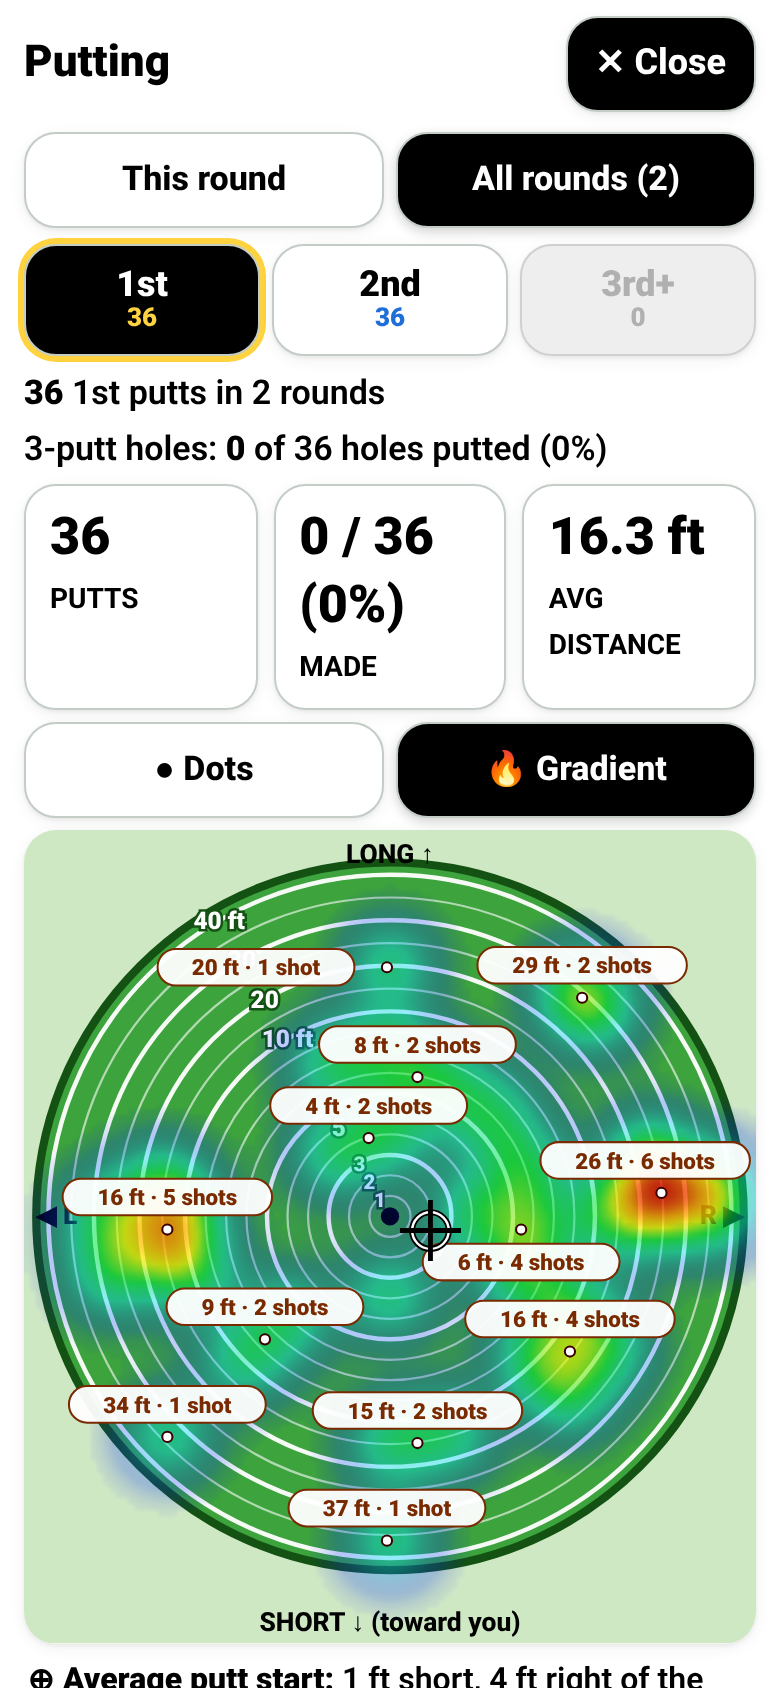
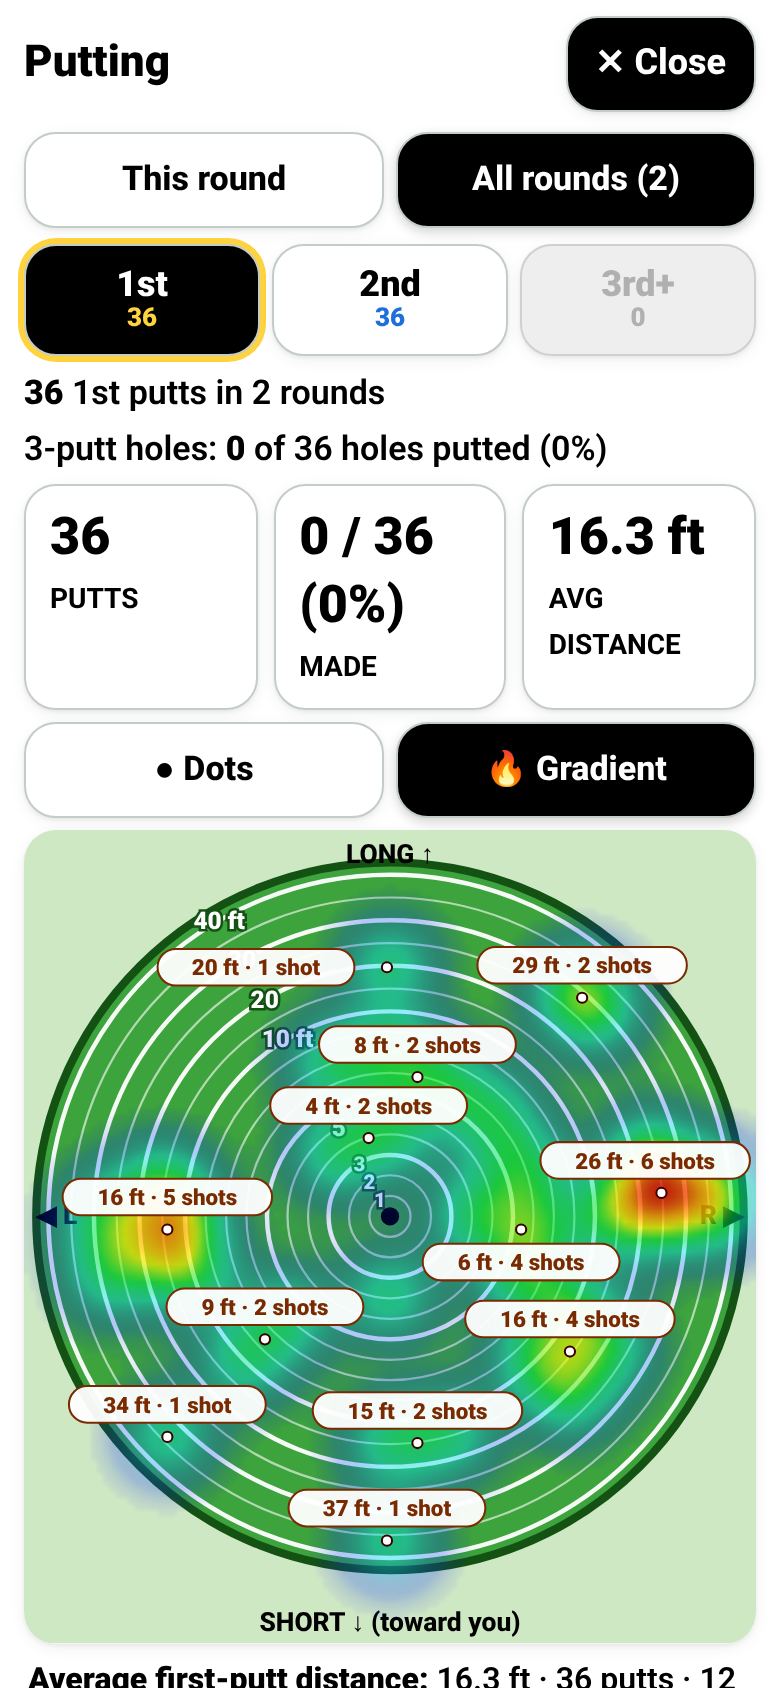
v62: putt-start maps show the mean entered putt distance, no misleading position average

Changed region(s): [[0.0308, 0.9858, 0.9538, 1.0], [0.5231, 0.7085, 0.5846, 0.7393]]

diff --git a/app.js b/app.js
@@ -1291,16 +1291,20 @@
     var ax = 0, ay = 0, lr = 0, lg = 0, yd = pts.every(function (p) { return p.u === 'yd'; });
     pts.forEach(function (p) { ax += p.x; ay += p.y; var dx = p.x - C[0], dy = C[1] - p.y, L = Math.hypot(dx, dy) || 1, d = yd ? p.d : p.u === 'yd' ? p.d * 3 : p.d; lr += d * dx / L; lg += d * dy / L; });
     ax /= pts.length; ay /= pts.length; lr /= pts.length; lg /= pts.length;
-    h += '<g id="heatavg"><circle cx="' + f1(ax) + '" cy="' + f1(ay) + '" r="9" fill="none" stroke="#000" stroke-width="3"/><circle cx="' + f1(ax) + '" cy="' + f1(ay) + '" r="9" fill="none" stroke="#fff" stroke-width="1.2"/>' +
+    // putt-start map: putts start all around the cup, so their average POSITION cancels out near the hole -> no ⊕ there; report the mean distance instead
+    var puttStart = view.map === 'putt';
+    if (!puttStart) h += '<g id="heatavg"><circle cx="' + f1(ax) + '" cy="' + f1(ay) + '" r="9" fill="none" stroke="#000" stroke-width="3"/><circle cx="' + f1(ax) + '" cy="' + f1(ay) + '" r="9" fill="none" stroke="#fff" stroke-width="1.2"/>' +
       '<path d="M' + f1(ax - 15) + ' ' + f1(ay) + ' h30 M' + f1(ax) + ' ' + f1(ay - 15) + ' v30" stroke="#000" stroke-width="2.4"/></g>';
     var g = document.createElementNS(NS, 'g'); g.setAttribute('id', 'heatlayer'); g.innerHTML = h; svg.appendChild(g);
     var U = yd ? ' yd' : ' ft', part = function (v, a, b) { return Math.round(Math.abs(v)) ? Math.round(Math.abs(v)) + U + ' ' + (v > 0 ? a : b) : ''; };
     var words = [part(lg, 'long', 'short'), part(lr, 'right', 'left')].filter(Boolean).join(', ');
     var sm = document.createElement('p'); sm.className = 'heatsum'; sm.id = 'heatsum';
-    sm.innerHTML = '<b>⊕ Average ' + (view.map === 'putt' ? 'putt start' : 'finish') + ':</b> ' + (words ? words + ' of the hole' : 'centred on the hole') + ' · ' + pts.length + ' shot' + (pts.length === 1 ? '' : 's') + (mode === 'grad' ? (tagged ? ' – ' + tagged + ' hot spot' + (tagged === 1 ? '' : 's') : '') : tagged > 1 || (tagged && lone) ? ' – ' + tagged + ' cluster' + (tagged === 1 ? '' : 's') + (lone ? ' + ' + lone + ' single shot' + (lone === 1 ? '' : 's') + ' (no tag)' : '') : '') + '.';
+    sm.innerHTML = (puttStart ? '<b>Average ' + ({ '2': 'second-putt', '3': '3rd+ putt' }[view.puttN] || 'first-putt') + ' distance:</b> ' + (function () { var PL = puttData().list, m = PL.length ? PL.reduce(function (t, p) { return t + Number(p.ft); }, 0) / PL.length : 0; /* simple mean of the entered starting distances of every putt on this map */
+        return (Math.round(m * 10) / 10) + ' ft · ' + PL.length + ' putt' + (PL.length === 1 ? '' : 's'); })() :
+      '<b>⊕ Average finish:</b> ' + (words ? words + ' of the hole' : 'centred on the hole') + ' · ' + pts.length + ' shot' + (pts.length === 1 ? '' : 's')) + (mode === 'grad' ? (tagged ? (puttStart ? ' · ' : ' – ') + tagged + ' hot spot' + (tagged === 1 ? '' : 's') : '') : tagged > 1 || (tagged && lone) ? ' – ' + tagged + ' cluster' + (tagged === 1 ? '' : 's') + (lone ? ' + ' + lone + ' single shot' + (lone === 1 ? '' : 's') + ' (no tag)' : '') : '') + '.';
     anc.parentNode.insertBefore(sm, anc.nextSibling);
     var lg2 = document.createElement('p'); lg2.className = 'help heatnote'; lg2.id = 'heatnote';
-    lg2.innerHTML = mode === 'grad' ? '<span class="ramp rainbow" aria-hidden="true"></span> Gradient: a smooth density map of where the shots finished – clear = none, blue = a few, then green, yellow, red = most. One white tag per hot spot (average distance to the hole · shots in it). Cluster slider: tight = more, smaller hot spots; loose = fewer, wider ones. ⊕ = average finish of all shots shown. Shots with no direction entered are left out.' : '<span class="ramp" aria-hidden="true"></span> Islands: each island is shaded by its share of the shots – light = few, dark red = most. Each white tag is one cluster – shots within 3 ft of each other (3 yd off the green), clusters less than 2 ft apart merged – with its average distance to the hole · number of shots. Single, isolated shots get no tag. ⊕ = average finish of all shots shown. Shots with no direction entered are left out.';
+    lg2.innerHTML = mode === 'grad' ? '<span class="ramp rainbow" aria-hidden="true"></span> Gradient: a smooth density map of where the shots finished – clear = none, blue = a few, then green, yellow, red = most. One white tag per hot spot (average distance to the hole · shots in it). Cluster slider: tight = more, smaller hot spots; loose = fewer, wider ones. ' + (puttStart ? 'No ⊕ here: putts start all around the hole, so an average position would cancel out – the summary gives the average distance instead. ' : '⊕ = average finish of all shots shown. ') + 'Shots with no direction entered are left out.' : '<span class="ramp" aria-hidden="true"></span> Islands: each island is shaded by its share of the shots – light = few, dark red = most. Each white tag is one cluster – shots within 3 ft of each other (3 yd off the green), clusters less than 2 ft apart merged – with its average distance to the hole · number of shots. Single, isolated shots get no tag. ⊕ = average finish of all shots shown. Shots with no direction entered are left out.';
     sm.parentNode.insertBefore(lg2, sm.nextSibling);
   }
   // ---------- Club performance (app only): everything from where the ball FINISHED (next row's distance + direction) ----------

diff --git a/tests/heat-focused.js b/tests/heat-focused.js
@@ -29,9 +29,18 @@ const BASE = process.env.BASE_URL || 'http://127.0.0.1:8774/', OUT = '/workspace
     if (m === 'prox') { const all = await page.$('[data-act="proxb"][data-v="all"]'); if (all) await all.click(); await page.waitForSelector('#heattog'); }
     if (m === 'pmiss') { await page.waitForSelector('#heattog'); }
     const gr = await page.evaluate(() => ({ img: !!document.querySelector('#mapview svg.heat #heatgrad'), hs: [...document.querySelectorAll('#mapview .hotspot text')].map(t => t.textContent), avg: !!document.querySelector('#heatavg'), sel: document.querySelector('#heattog .sel').dataset.v }));
-    assert.ok(gr.img && gr.avg && gr.sel === 'grad', m + ' gradient by default for multi-round ' + JSON.stringify(gr));
+    assert.ok(gr.img && (m === 'putt' ? !gr.avg : gr.avg) && gr.sel === 'grad', m + ' gradient by default for multi-round ' + JSON.stringify(gr));
     assert.ok(gr.hs.every(t => /^\d+ (ft|yd) · \d+ shots?$/.test(t)), m + ' hot-spot tags ' + gr.hs);
     await page.locator('#heattog').scrollIntoViewIfNeeded(); await page.screenshot({ path: OUT + 'heatmap-gradient-' + m + '.png' });
+    if (m === 'putt') { // putt starts: no ⊕, summary = mean distance of the putts shown
+      const ps = await page.evaluate(() => { const rs = JSON.parse(localStorage.getItem('golfsg.rounds.v1')); const d = []; // raw entered first-putt distances
+        rs.forEach(r => SG.summarize(r, 'pga').puttList.filter(p => SG.puttGroup(p.n) === '1').forEach(p => d.push(Number(p.ft)))); return { t: document.getElementById('heatsum').textContent, d }; });
+      const mm = ps.t.match(/^Average first-putt distance: ([\d.]+) ft · (\d+) putts · (\d+) hot spots?\.$/); assert.ok(mm, 'putt summary ' + ps.t);
+      assert.strictEqual(+mm[2], ps.d.length); assert.strictEqual(+mm[1], Math.round(ps.d.reduce((a, b) => a + b, 0) / ps.d.length * 10) / 10, 'raw mean ' + ps.t);
+      assert.match(await page.textContent('#puttstats'), new RegExp(mm[1].replace('.', '\\.') + ' ft'), 'matches the Avg distance tile');
+      assert.strictEqual(+mm[3], await page.$$eval('#mapview .hotspot', g => g.length)); assert.ok(!/⊕/.test(ps.t));
+      await page.locator('#heatsum').scrollIntoViewIfNeeded(); await page.screenshot({ path: OUT + 'putt-avg-fixed.png' }); console.log('putt', ps.t); }
+    else assert.match(await page.textContent('#heatsum'), /^⊕ Average finish:/);
     // Islands view retired: only Dots and Gradient; tags never overlap
     assert.strictEqual(await page.$('[data-act="heat"][data-v="isl"]'), null, m + ' no Islands button');
     await page.click('[data-act="heat"][data-v="grad"]');

diff --git a/sw.js b/sw.js
@@ -1,5 +1,5 @@
 // Offline support: cache the whole app on install, serve cache-first.
-const CACHE = 'golf-sg-v61';
+const CACHE = 'golf-sg-v62';
 const ASSETS = ['./', './index.html', './styles.css', './sg.js', './app.js', './config.js', './onedrive.js', './vendor/msal-browser.min.js', './vendor/jspdf.umd.min.js',
   './manifest.webmanifest', './icons/apple-touch-icon.png', './icons/icon-192.png',
   './icons/icon-512.png', './icons/icon-512-maskable.png'];
